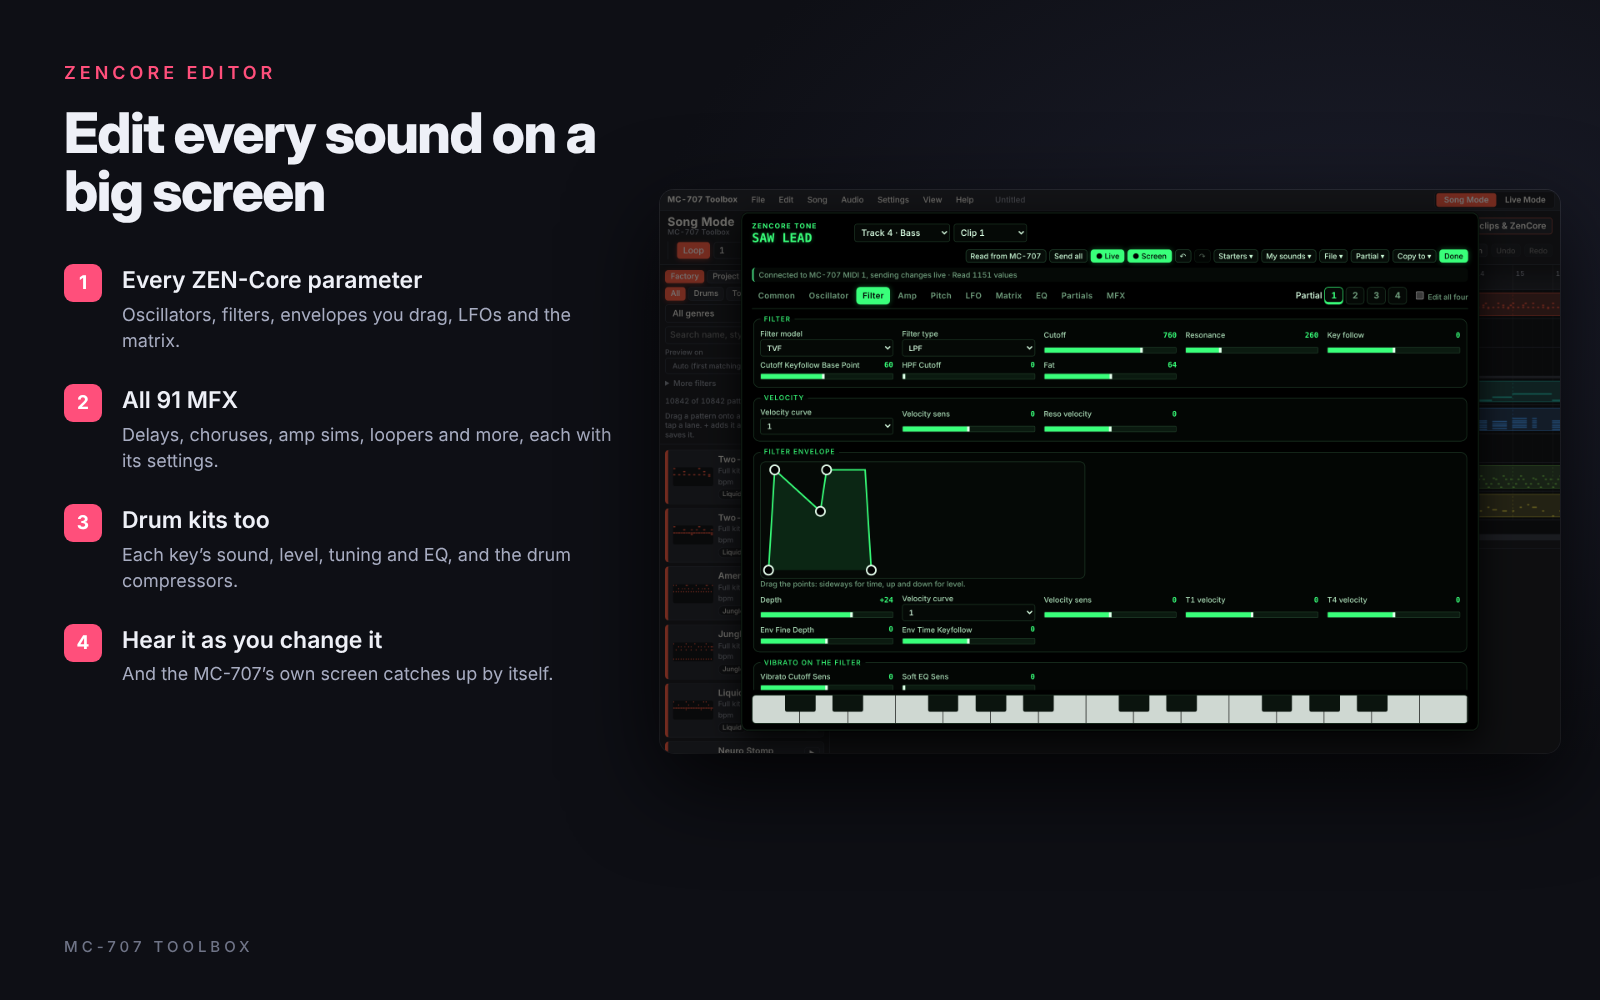
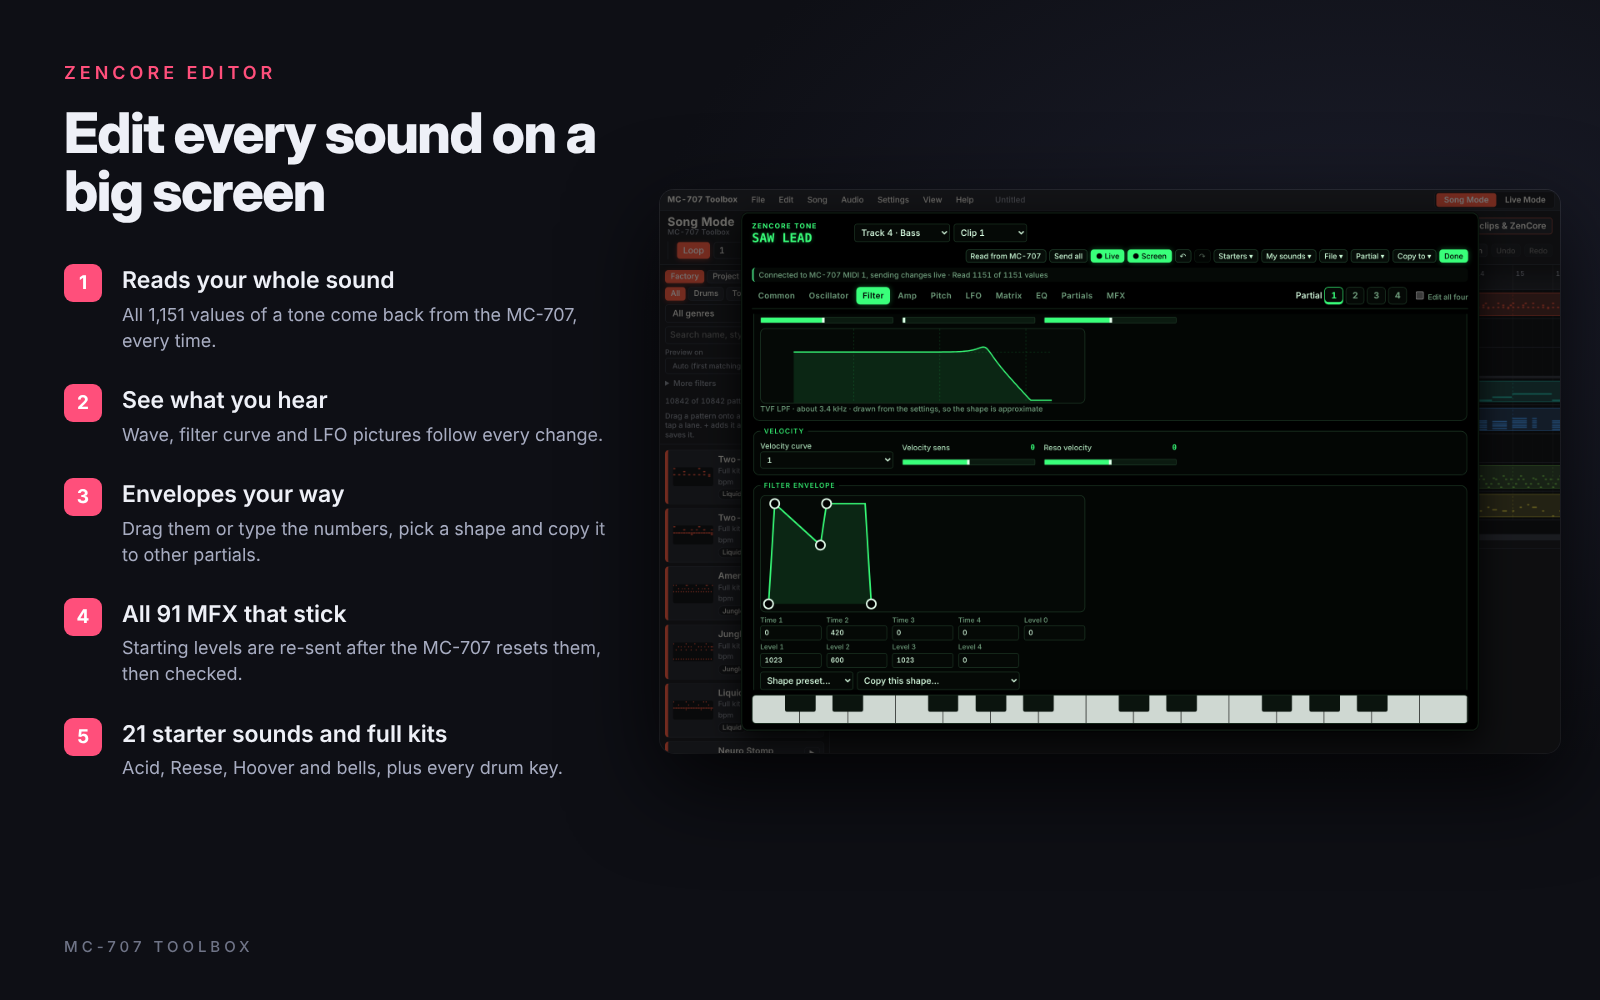
Version 1.3.3: ZenCore previews and envelope tools, Live timing and fades, Raven takeover
New ZenCore card and screenshot; README describes the previews, envelope numbers, shapes and copy, 21 starters, the new fill and fade timing and Raven takeover.

Claude-Session: https://claude.ai/code/session_013JHr4DUtWBdvd7qggkPUu7

diff --git a/README.md b/README.md
@@ -6,7 +6,7 @@ Write songs and play live sets on the **Roland MC-707** from your computer. One 
 - **Live Mode**: perform a looping set from 16 pads, with breaks, builds, drops, swaps and fades that land on the beat.
 - **ZenCore editor**: edit the sound in any of your MC-707's clips on a big screen.
 
-> **Version 1.3.2.** Free to use and share, not for sale (see [Licence](#licence)). An unofficial fan project, not made by or affiliated with Roland.
+> **Version 1.3.3.** Free to use and share, not for sale (see [Licence](#licence)). An unofficial fan project, not made by or affiliated with Roland.
 
 **Try it:** open the [web version](https://mendo-707.github.io/mc707-toolbox/) in Chrome or Edge, or download the Windows app from [Releases](../../releases).
 
@@ -42,6 +42,9 @@ Write songs and play live sets on the **Roland MC-707** from your computer. One 
 - **Acid** lines for a tone track, and **My MC-707 clips & ZenCore** at the top of Song Mode.
 - ZenCore editor: reads every parameter of a tone reliably (1.3.1 fixes how it asks the MC-707, found from a real dump), the MC-707's screen updates by itself, there's a black-and-green look, and MC-101 support is fixed.
 - **Settings › App sounds** turns the app's own sound on or off. Punk and rock are gone.
+- **1.3.3, ZenCore you can see:** a wave preview for each oscillator, a live filter response curve and a picture of each LFO. Envelopes take typed numbers as well as dragging, have shape presets (plucks, swells, stabs, gates and more) and copy to other partials or envelopes. 21 starter sounds.
+- **1.3.3, Live timing:** fills end exactly on the downbeat they lead into, auto-pilot's changes land on phrase lines, and 2-bar breaks come back on the phrase. Only pads and chords fade now: bass and melodies come in on the beat and stop cleanly.
+- **1.3.3, Raven takeover:** play a track yourself and the app leaves it alone until 4 bars after your last note.
 
 ---
 
@@ -111,14 +114,14 @@ Untick *Show this when the app opens* to skip it; **File › Start screen** brin
 | **Scenes** | Seven loops built for playing live: Groove, Lift, Peak, Stripped, Groove B, Tool and Peak B. Each has its own mix of parts and length, and parts come and go so the loop breathes. A big jump in energy lands as a drop. Press ✎ to edit any scene: its name, length, energy, the pattern and MC-707 clip on each track (stay, pick one or **random**), and which bars each part plays. |
 | **16 pads** | Laid out like the MC-707. Pads 1–7 hold the scenes and pad 8 is **Break**. The bottom row holds the Drums, Bass, Chords and Lead swaps, Fill, Stutter, Build → Drop and Next scene. Select a drum track on the MC-707 and its pads work straight away. You can also use the mouse or computer keys (`Q`–`I` top row, `A`–`K` bottom row). |
 | **Break and Build → Drop** | **Break** gives a quick flash (unison hits, stutter, snare roll or drop-out), then it's straight back in on the downbeat with a crash. **Build → Drop** brings a snare build that doubles to a roll, a filter riser, a cut and a beat of silence, then the drop with an impact, over 2, 4 or 8 bars. |
-| **Fades** | When a scene changes, parts that come in or leave fade on the MC-707's own volume (expression, CC 11), so held chords and pads fade too. **Entry** in Settings and mapping sets how long: Smooth (1 bar), Slow (2 bars), Long (4 bars), Very long (8 bars) or Hard cut. **Live › Stop at end of phrase** fades everything out over 2 bars. |
+| **Fades** | When a scene changes, pads fade in and out on the MC-707's own volume (expression, CC 11), so held notes fade too, and chords fade briefly. Bass, leads, plucks and arps never fade: they come in on the downbeat and stop on the change, letting their last notes ring out. **Entry** in Settings and mapping sets how long the pads take: Smooth (1 bar), Slow (2 bars), Long (4 bars), Very long (8 bars) or Hard cut. **Live › Stop at end of phrase** lets the melody finish with the phrase, then fades the drums, chords and pads over 2 bars. Fills always end exactly on the downbeat they lead into. |
 | **New patterns** | **🎲 New patterns** drops to the drums from the next bar, blends the new set's drums in, and brings in its first scene after 2–6 bars, so the music never stops. |
 | **Moves** | **Wash**, **Throw**, **Filter dip**, **Pump** and **Autopan** on the MC-707's own controls, and a move per scene. During builds, resonance climbs, reverb washes up and the tone parts pump; it all snaps back on the drop (untick **Epic builds** to turn that off). |
 | **Staying in tune** | Every tone part in a set follows one chord progression, and swaps and guest melodies only pick parts that fit it. Key and **minor/major** change any time; **Try** shows keys that suit the style. |
 | **Variation, Energy, Auto-pilot** | **Variation** sets how often the set changes by itself, up to **Extreme**. **Energy** goes from a sparse breakdown to all 8 parts. **Auto-pilot** runs the set, with a Chaos amount. **🔒 Lock loop** holds exactly what's playing; **＋ Save as scene** keeps it. |
 | **Acid** | 303-style lines with accents, slides and octave jumps for techno, acid techno, house, trance, electro, breakbeat and drum and bass. Mark a clip as **Acid** and Live Mode plays them on it. |
 | **Knobs, XY pad, Scatter** | The MC-707's FILTER, MOD, FX and SOUND knobs (CC 80–83), the XY pad and the 16 Scatter pads, each showing where it rests. |
-| **Raven mode** | Inspired by the Quasimidi Raven: one octave changes the key of every melodic part, another mutes and unmutes tracks, and four keys give Unmute all, Fill, Build → Drop and Break. There are eight presets (Classic Raven, Raven Mute B, DJ cuts, Key jockey, Drop builder, Lead player, Bass player and Chord jam), and it works from the MC-707's keys or a controller keyboard. |
+| **Raven mode** | Inspired by the Quasimidi Raven: one octave changes the key of every melodic part, another mutes and unmutes tracks, and four keys give Unmute all, Fill, Build → Drop and Break. There are eight presets (Classic Raven, Raven Mute B, DJ cuts, Key jockey, Drop builder, Lead player, Bass player and Chord jam), and it works from the MC-707's keys or a controller keyboard. **Takeover:** play a track yourself (the solo keys, or the MC-707's keys on that track) and the app stops playing its pattern there and stops sending it effects, fades and clip changes; it takes the track back 4 bars after your last note. |
 | **Controller keyboard** | Plug in a USB keyboard as well (FLkey, Launchkey, KeyLab, MPK, Oxygen Pro, Komplete Kontrol, Roland A-49 and others). Its keys mute, change key and play a live solo on any track. Knobs, faders and pads control the set, and **Learn all controls in order** matches your model. |
 | **Capture to Song** | Turns what you just played into a Song Mode arrangement, with a marker for each scene. |
 | **Stage ready** | Seven colour themes, a reactive visualizer, **F11** fullscreen, and the screen stays awake while playing. |
@@ -134,19 +137,20 @@ Edit the sounds inside your MC-707: every parameter of a ZEN-Core tone, on a big
 | Page | What you can change |
 |---|---|
 | **Common** | Name, category, level, tuning, mono/poly, legato, portamento, bend range, unison and pitch drift. |
-| **Oscillator** | Each of the 4 partials: PCM wave, VA (saw, square, triangle, sine, Juno …), PCM-Sync, SuperSAW or noise, with pulse width, PWM, detune, FXM and stereo width. |
-| **Filter** | TVF or the VCF models (JP, M, P) at -12, -18 or -24 dB, cutoff, resonance, key follow, HPF, Fat, and a filter envelope you drag. |
-| **Amp, Pitch, LFO** | Draggable amp and pitch envelopes, velocity, pan and sends; two LFOs per partial with tempo sync and the 16-step STEP wave. |
+| **Oscillator** | Each of the 4 partials: PCM wave, VA (saw, square, triangle, sine, Juno …), PCM-Sync, SuperSAW or noise, with pulse width, PWM, detune, FXM and stereo width. A preview draws the wave, including pulse width, PWM and SuperSAW detune. |
+| **Filter** | TVF or the VCF models (JP, M, P) at -12, -18 or -24 dB, cutoff, resonance, key follow, HPF, Fat, and a filter envelope. A response curve shows the cutoff, resonance and slope as you change them. |
+| **Amp, Pitch, LFO** | Amp and pitch envelopes, velocity, pan and sends; two LFOs per partial with tempo sync and the 16-step STEP wave, each with a picture of its shape, delay and fade. |
 | **Matrix, EQ, Partials** | Four matrix controls, each partial's EQ, key and velocity ranges, and ring and cross modulation. |
 | **MFX** | All 91 effect types with their own settings. |
 | **Drum kits** | Kit level and effect; each key's instrument, level, pan, tuning, filter, envelope and EQ; the six drum compressors. |
 
+- **Envelopes:** drag the points or type the times and levels. **Shapes** sets a whole envelope at once (pluck, pad swell, stab, gate, reverse and more, different for amp, filter and pitch), and **Copy this shape** puts it on the other partials or on another envelope, scaled to fit.
 - **Live:** every change goes to the MC-707 as you make it. Play the sound from the editor's keyboard or the MC-707's pads.
 - **Screen:** the MC-707 only redraws when a clip is selected, so with **Screen** on (the default) the editor selects the clip again a moment after you stop changing things, and the MC-707's display catches up. That also makes it the clip playing on that track; turn **Screen** off to keep another clip playing while you edit.
 - **Effects:** picking an effect sets sensible starting values (levels full, balance in the middle, gains at 0 dB). The MC-707 resets an effect's settings just after its type changes, so the editor sends them a moment later and checks they stuck.
 - **Closing the editor** releases every note it played, so nothing keeps ringing.
 - **Read from MC-707** reads the clip's sound when the editor opens and shows *Read X of Y values*; anything it couldn't read shows faded until you change it.
-- **Starters**, **My sounds**, **File** (save and open sounds), **Partial** (copy, paste, reset) and **Copy to** another clip. Undo and redo with Ctrl+Z and Ctrl+Shift+Z.
+- **Starters** (21 sounds to begin from: saw lead, acid, Reese and wobble basses, Juno and PWM pads, strings, brass, Hoover, sync lead, bell, organ, house chord stab, kick and more), **My sounds**, **File** (save and open sounds), **Partial** (copy, paste, reset) and **Copy to** another clip. Undo and redo with Ctrl+Z and Ctrl+Shift+Z.
 - **Keep it:** the editor changes the sound in the MC-707's memory, so save the project on the MC-707.
 
 Roland hasn't published SysEx details for the MC-707, so the editor builds on community work: [mc-programmer](https://github.com/rsenna/mc-programmer) and [mcpoker / mctools_basic](https://github.com/Locriana/mctools_basic) found how the MC-707 answers SysEx and where clip tones live, and [Roland-Zen-Decode-XML](https://github.com/DrKnackeratorStrikesAgain/Roland-Zen-Decode-XML) decoded Roland's parameter list. Effect names come from the MC-707 Reference Manual. Drum kit editing and some effect values have only been tested against a simulated MC-707, so reports from real hardware are welcome. Wave and drum instrument names aren't published, so they show as numbers.
